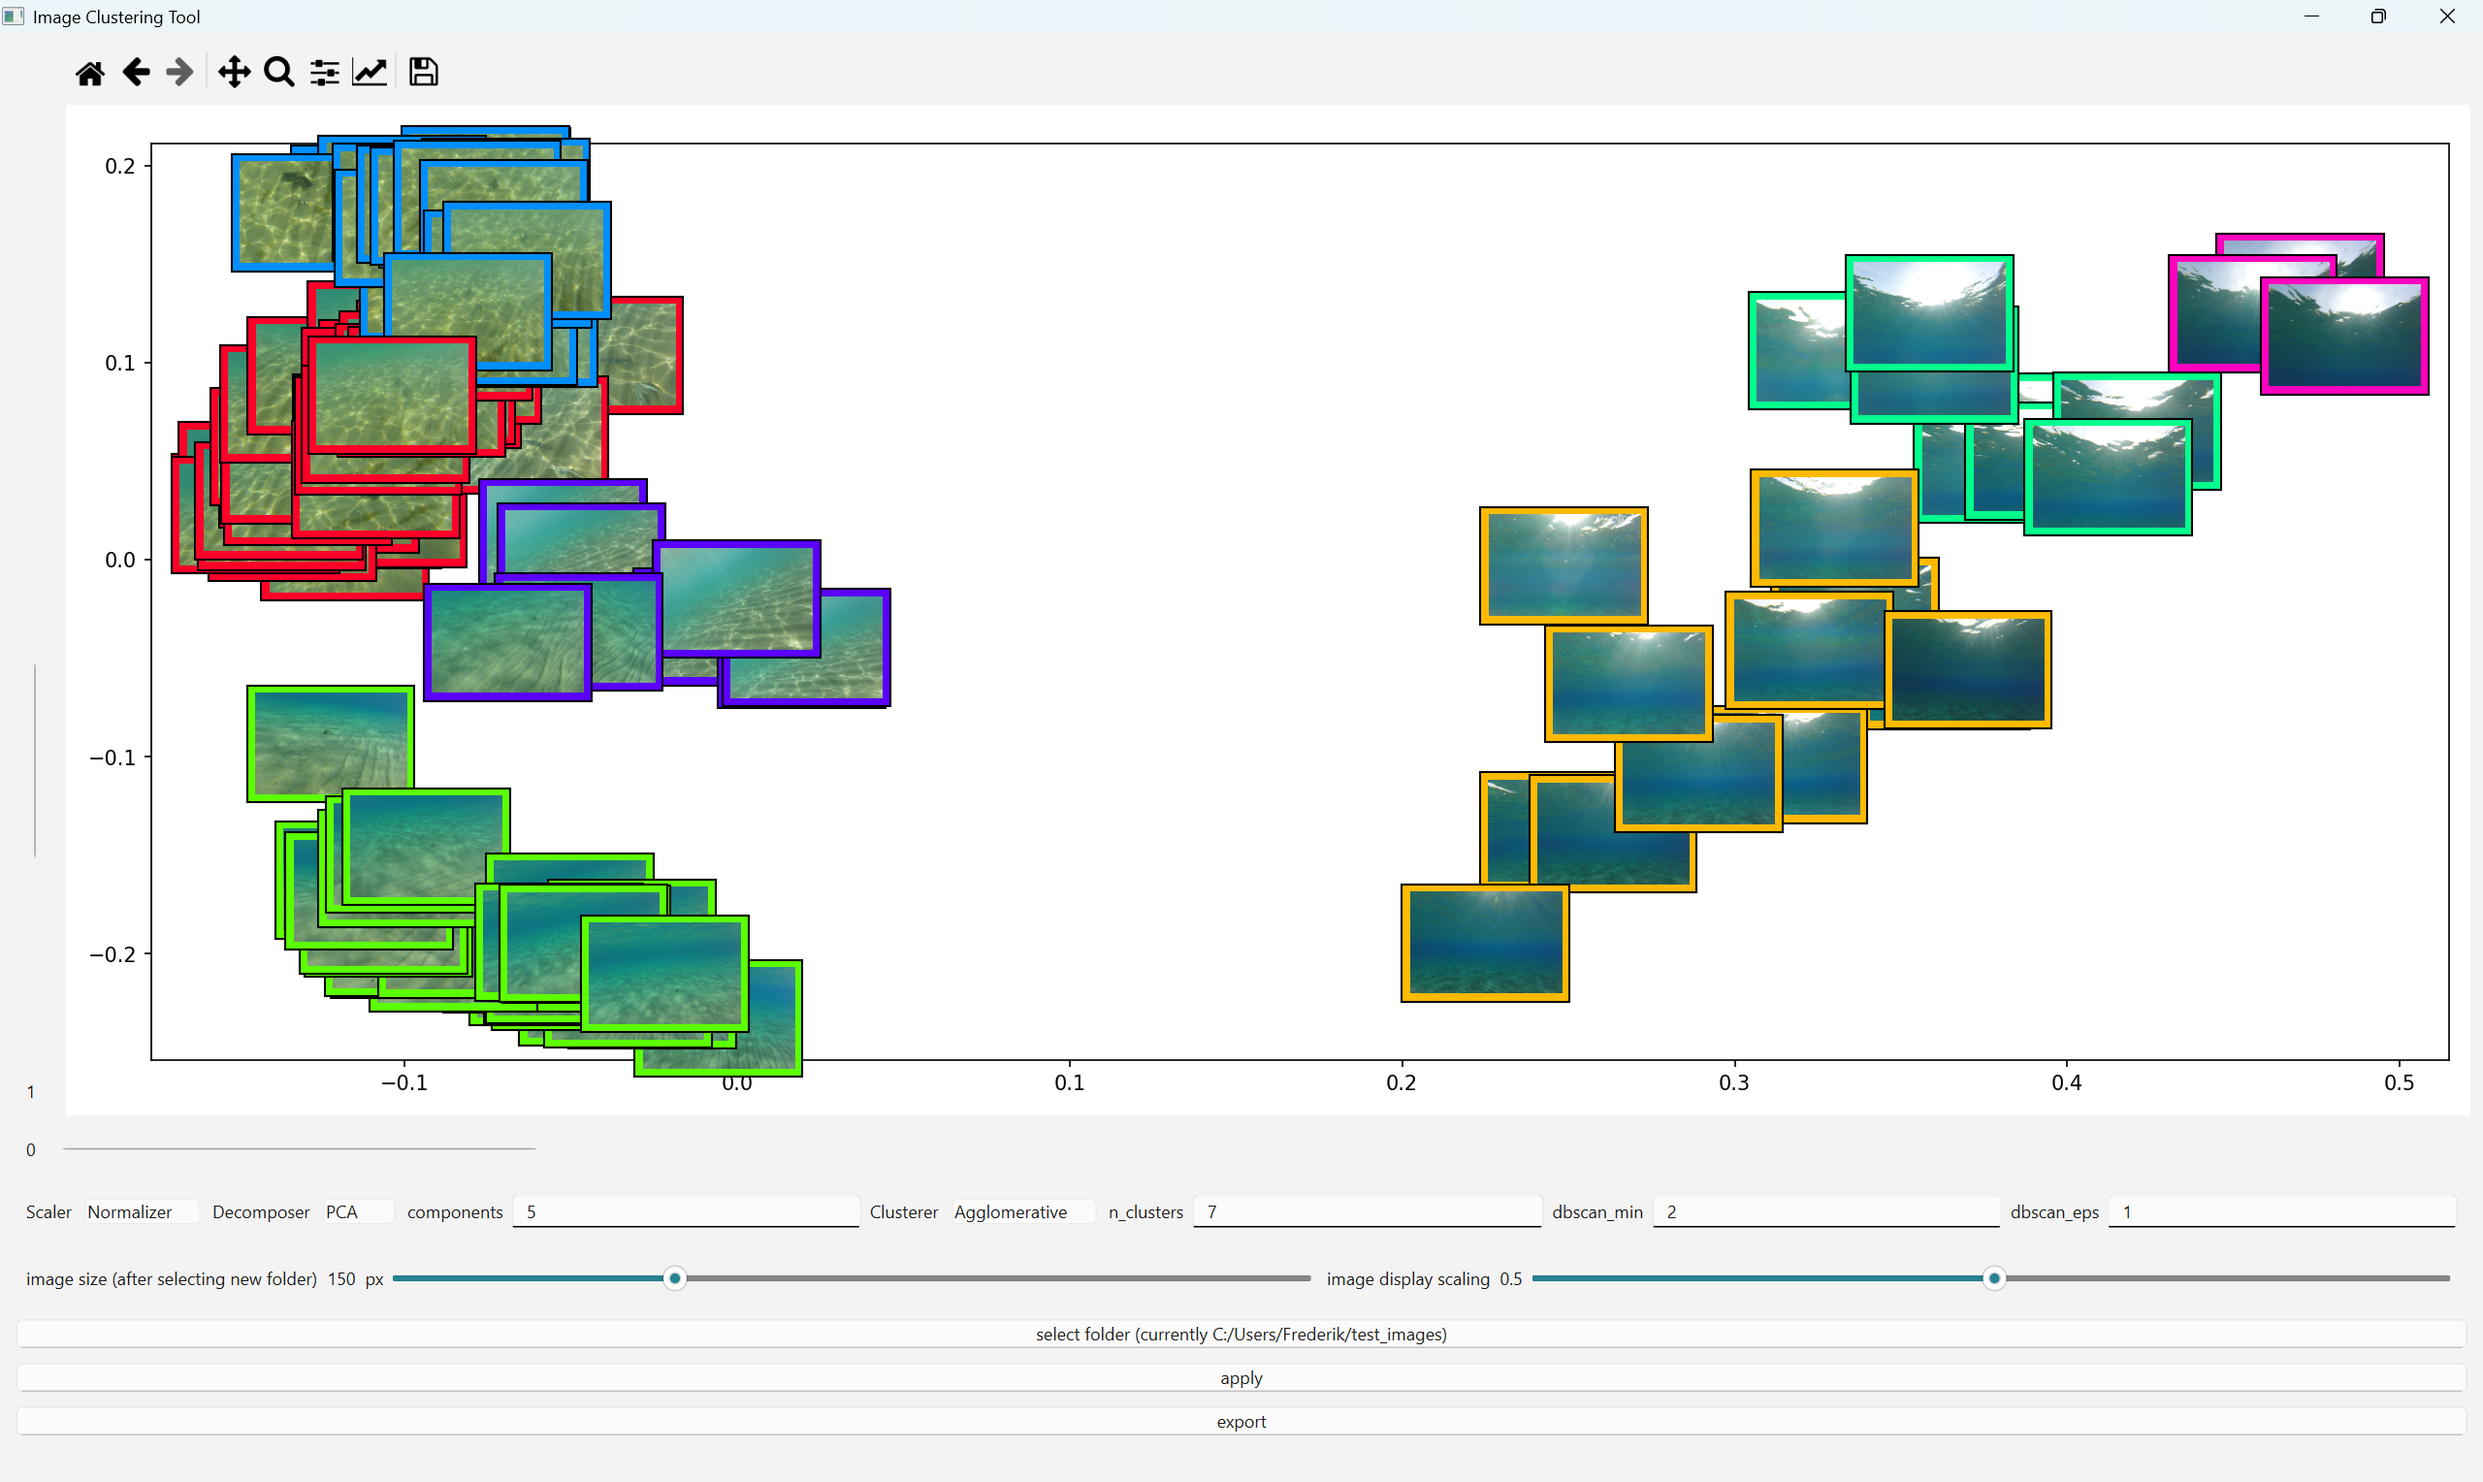
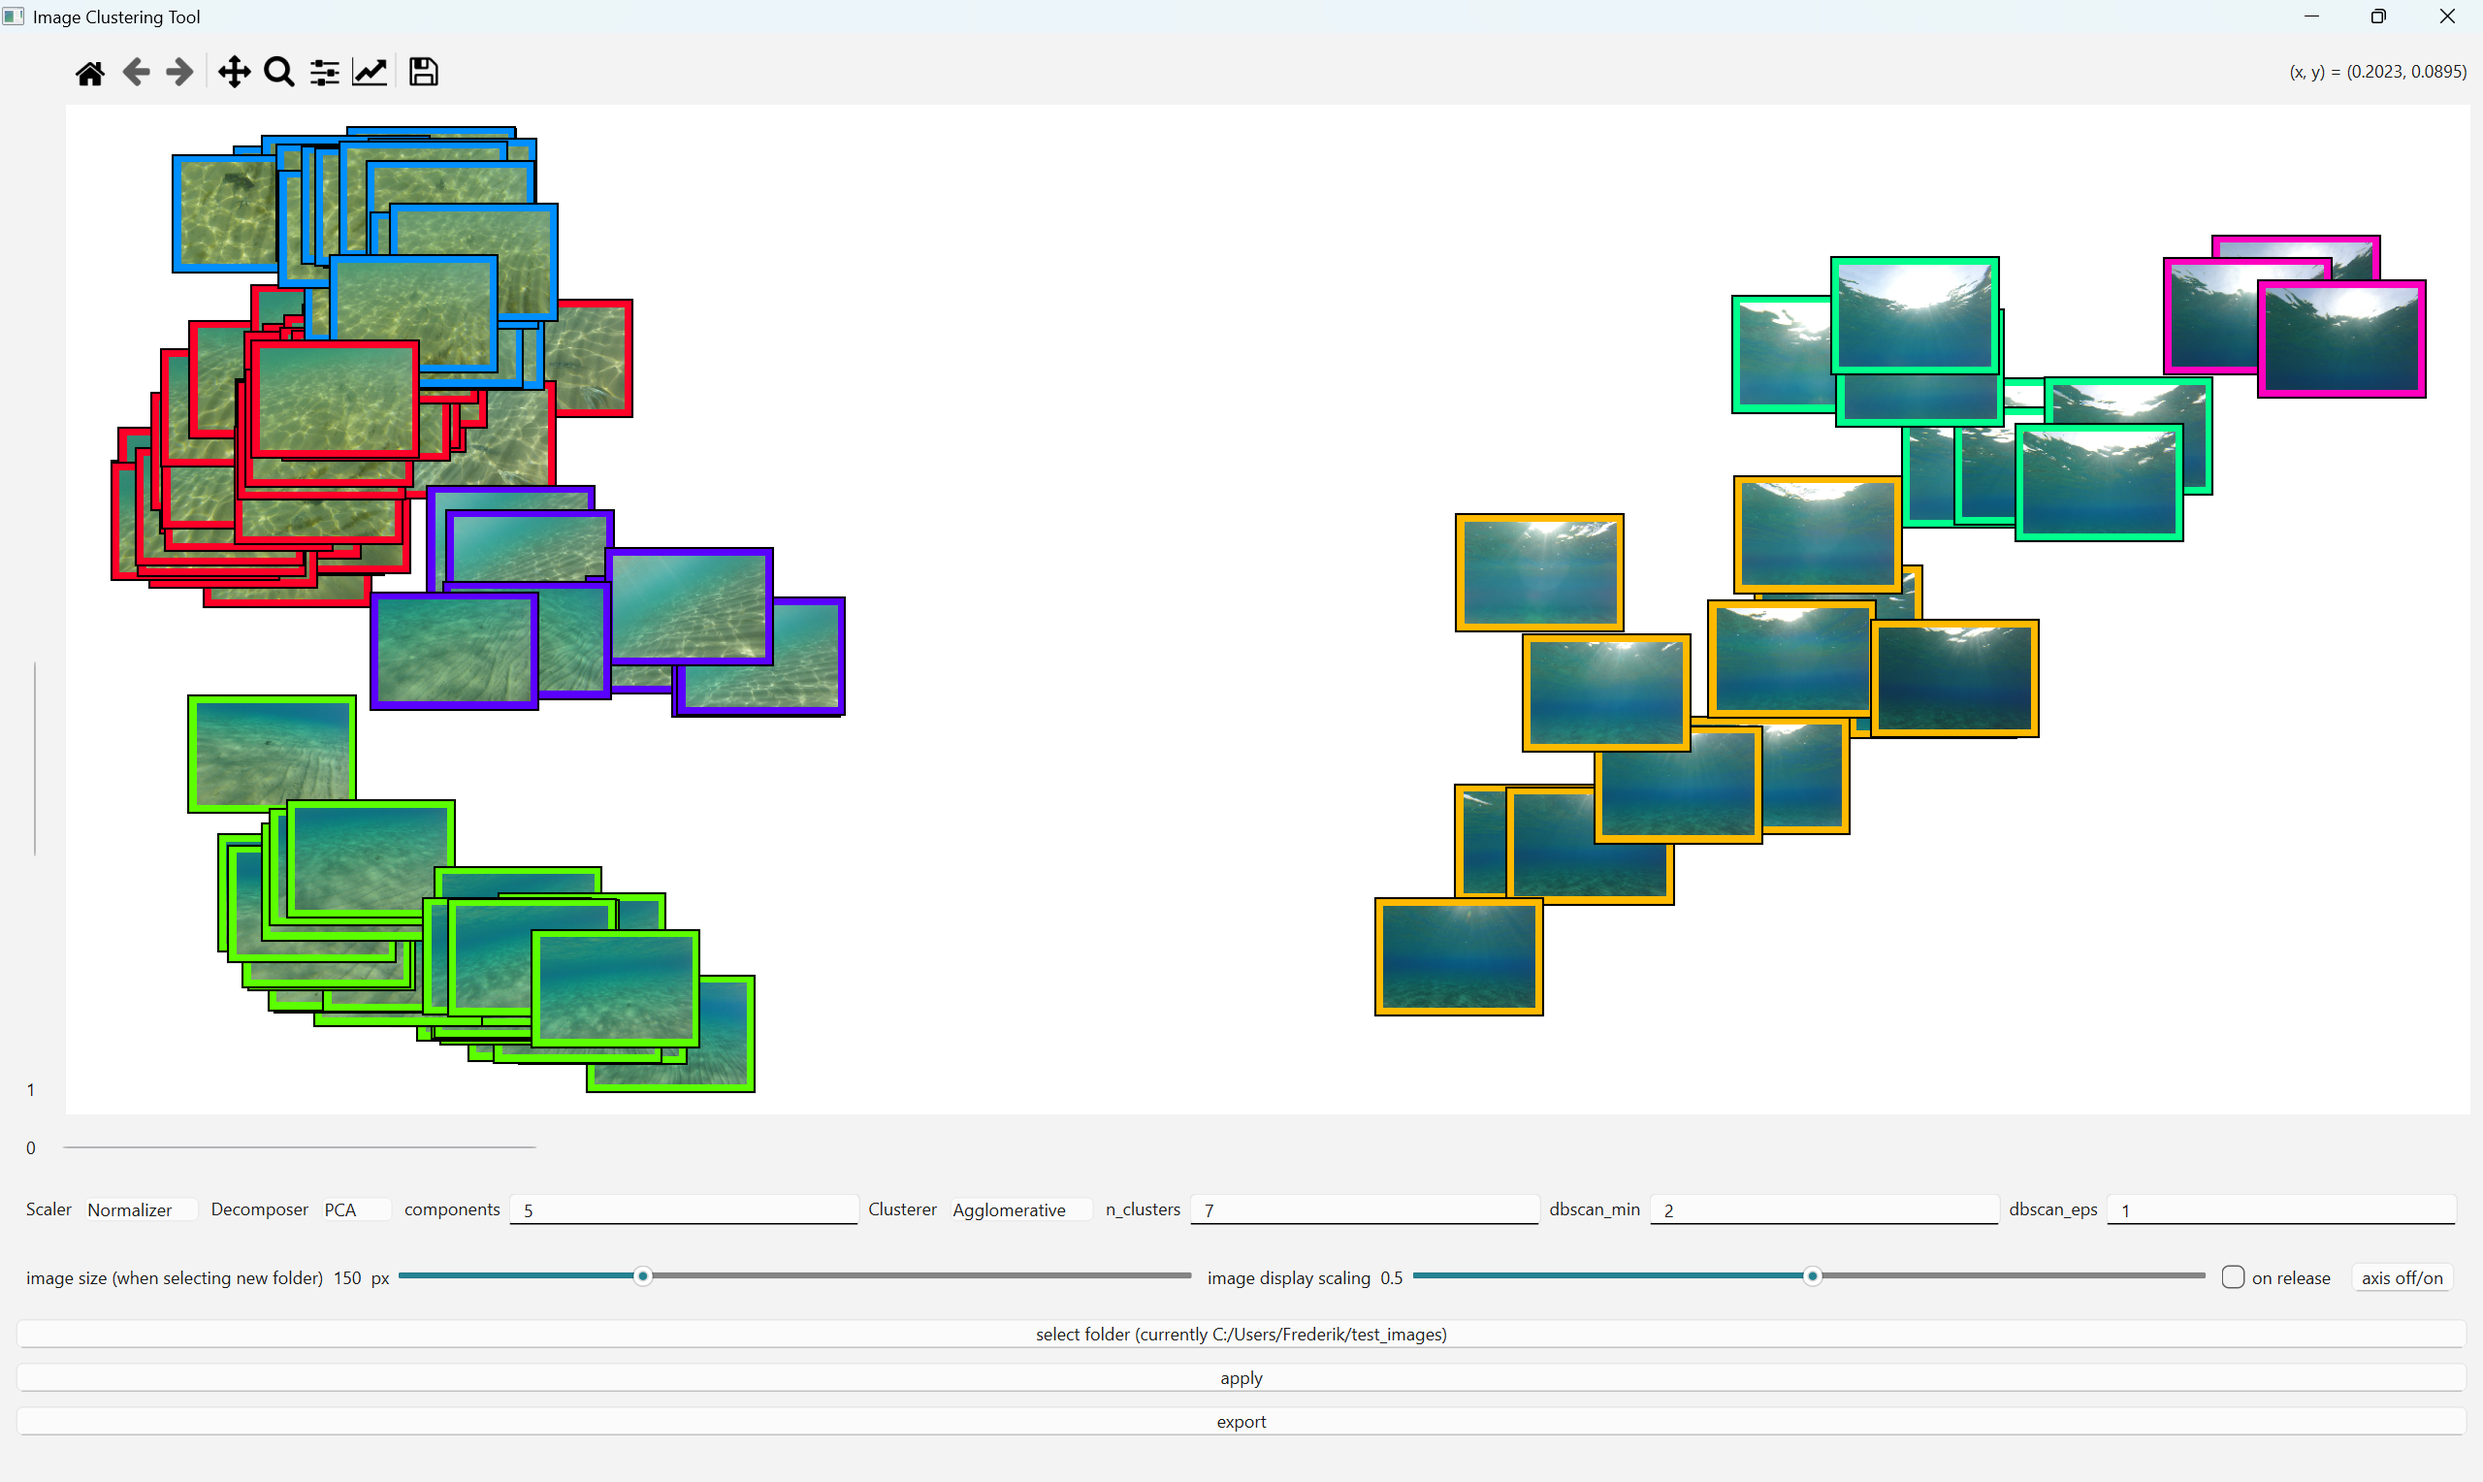
Update demo and fix axis display after new folder selection.

diff --git a/image_clustering_app.py b/image_clustering_app.py
@@ -67,7 +67,7 @@ class ImageClusteringApp(QMainWindow, gui.gui_form.Ui_MainWindow):
     
     def _reinit_data_and_view(self):
         self._static_ax.cla()
-        self.static_canvas.draw()
+        self._set_axis_visibility()
         self.current_cluster_labels = None
         self.img_data = None
         self.thumb_array = None
@@ -163,7 +163,7 @@ class ImageClusteringApp(QMainWindow, gui.gui_form.Ui_MainWindow):
     # -------Qt---------------------------------------------------------------------------------
 
     def on_select_folder_button_clicked(self):
-        selected_folder = self._get_folder_path()  # TEST empty folder
+        selected_folder = self._get_folder_path()
         if selected_folder is not None:
             self.selected_folder = selected_folder
             self._reinit_data_and_view()
